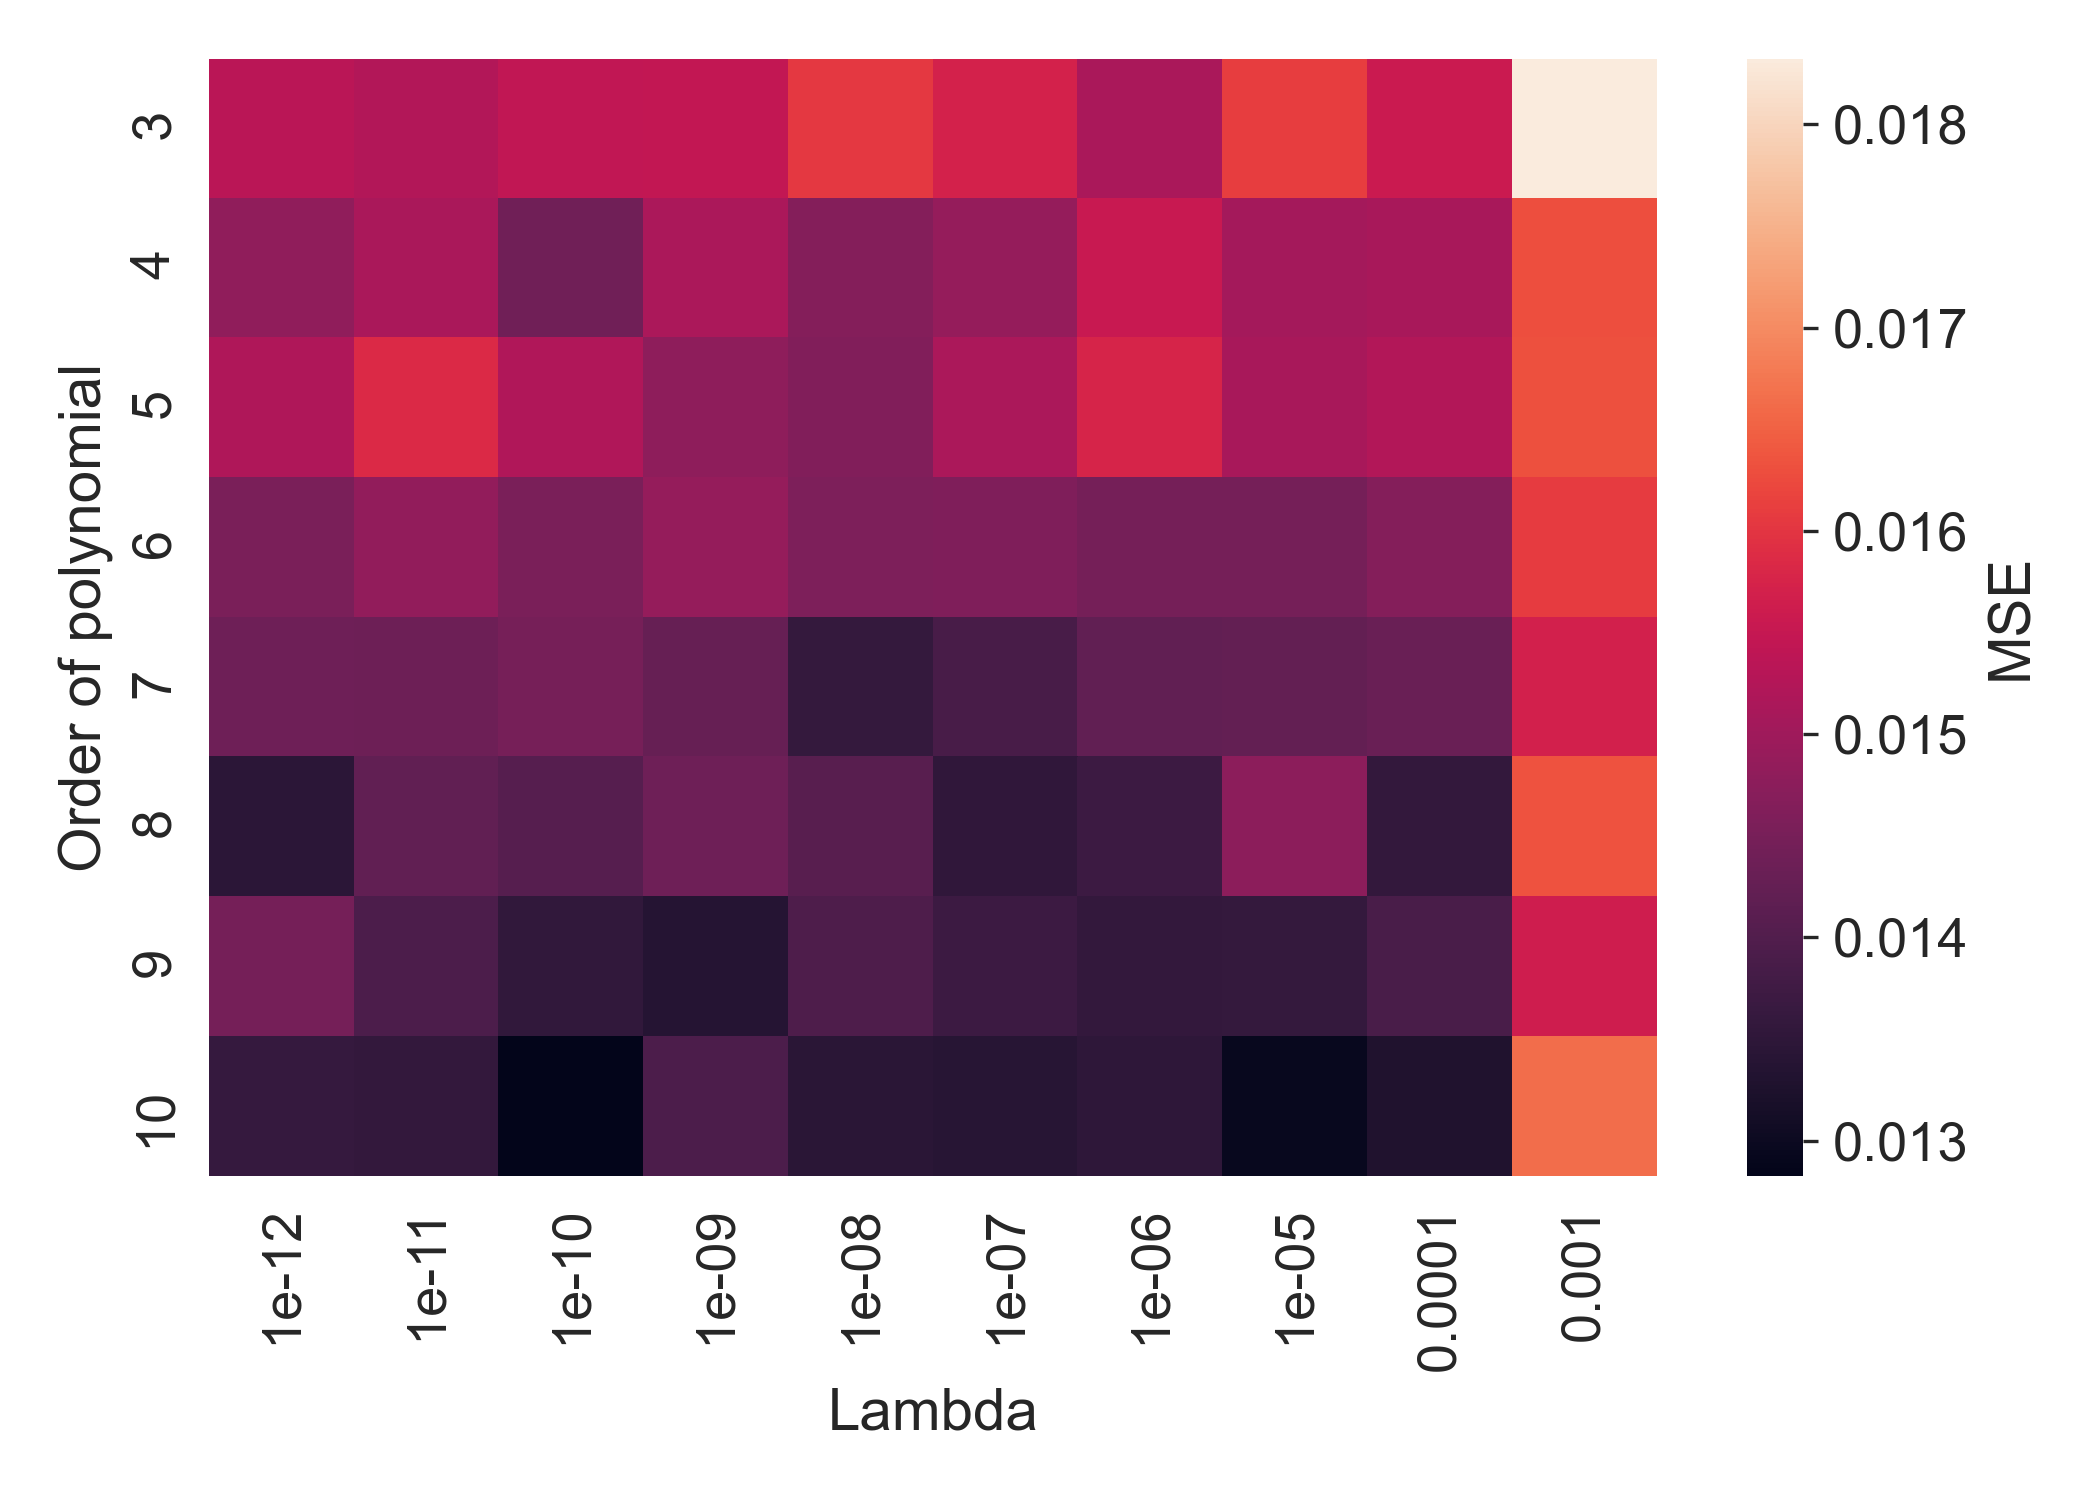
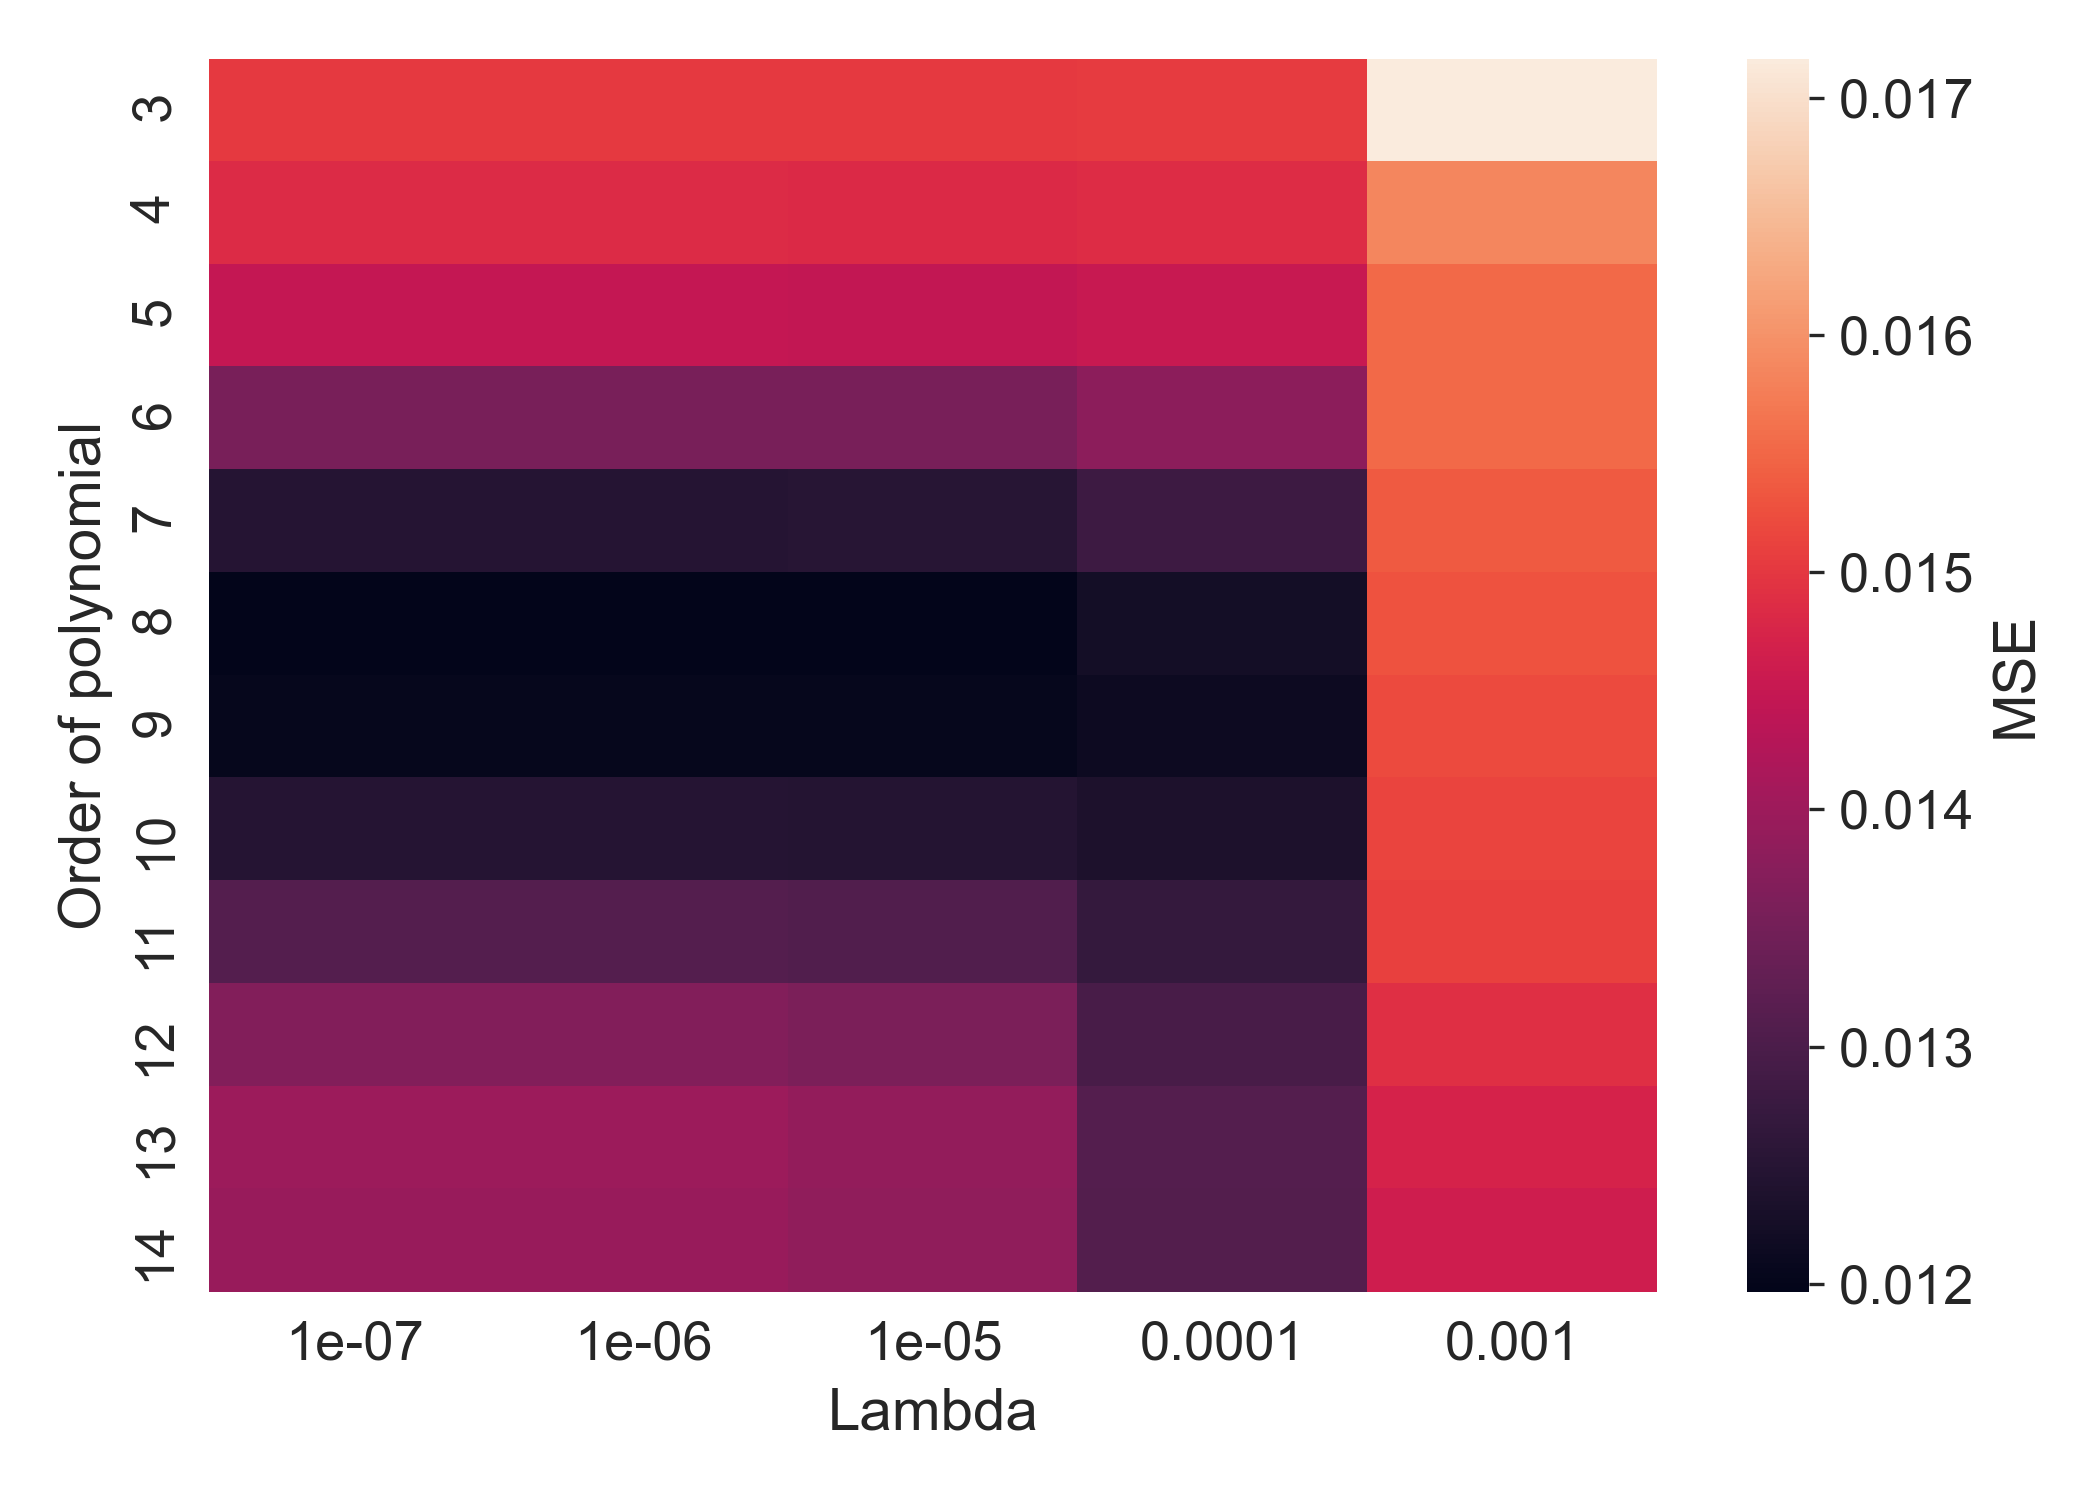
test

diff --git a/PROJECT1/main.py b/PROJECT1/main.py
@@ -67,11 +67,8 @@ def generate_reults(showfigs = False):
 
     plotfnc.MSE_plot(degrees_list, MSE_list_train, MSE_list_test, titles_ = titles, savename = "bootcross", savefig = True)
 
-    #(5)(E-F: CROSSVAL), (5) [2 figures, one ridge, one lasso]
-    # MSE COLORPLOT IN RIDGE AND LASSO (gridsearch)
-    print("Plotting gridsearch MSE, ridge and lasso.")
-    maxdeg = 13
-    crossval = True
+    #(5) Crossvalidation with k-fold gridsearch with ridge and lasso. MSE score
+    print("Plotting gridsearch MSE, ridge and lasso with crossval.")
     lambda_vals = np.logspace(-6, 0, 7)
     mindeg = 3
     maxdeg = 10
@@ -84,9 +81,10 @@ def generate_reults(showfigs = False):
         for j in range(maxdeg-mindeg+1):
             MSE_2d[j,i] = MSE_test_list[j] #fix indexing cause of length
 
-    plotfnc.gridsearch_plot(MSE_2d, lambda_vals, mindeg, maxdeg, savename="Ridge_grid", savefig = True)
+    plotfnc.gridsearch_plot(MSE_2d, lambda_vals, mindeg, maxdeg, savename="Ridge_crossval_grid", savefig = True)
 
-    lambda_vals = np.logspace(-12, -3, 10)
+    maxdeg = 20
+    lambda_vals = np.logspace(-7, -3, 5)
     method = Lasso
     MSE_2d = np.zeros(shape=(maxdeg+1-mindeg ,len(lambda_vals)))
     #Fill array with MSE values. x-axis lambda, y-axis degree
@@ -96,10 +94,39 @@ def generate_reults(showfigs = False):
         for j in range(maxdeg-mindeg+1):
             MSE_2d[j,i] = MSE_test_list[j] #fix indexing cause of length
 
+    plotfnc.gridsearch_plot(MSE_2d, lambda_vals, mindeg, maxdeg, savename="Lasso_crossval_grid", savefig = True)
+
+
+    #(6) No resampling gridsearch with ridge and lasso. MSE score
+    print("Plotting gridsearch MSE, ridge and lasso.")
+    maxdeg = 13
+    crossval = True
+    lambda_vals = np.logspace(-6, 0, 7)
+    method = Ridge
+    MSE_2d = np.zeros(shape=(maxdeg+1-mindeg ,len(lambda_vals)))
+    #Fill array with MSE values. x-axis lambda, y-axis degree
+    for i in range(len(lambda_vals)):
+        degrees_list, MSE_train_list, MSE_test_list, _, _, _, _, _, _ = \
+        Solver(x_, y_, z_, Nx_, Ny_, Ridge, useBootstrap=False, useCrossval=False, lamb=lambda_vals[i], mindegree = mindeg, maxdegree = maxdeg)
+        for j in range(maxdeg-mindeg+1):
+            MSE_2d[j,i] = MSE_test_list[j] #fix indexing cause of length
+
+    plotfnc.gridsearch_plot(MSE_2d, lambda_vals, mindeg, maxdeg, savename="Ridge_grid", savefig = True)
+
+    maxdeg = 14
+    lambda_vals = np.logspace(-7, -3, 5)
+    method = Lasso
+    MSE_2d = np.zeros(shape=(maxdeg+1-mindeg ,len(lambda_vals)))
+    #Fill array with MSE values. x-axis lambda, y-axis degree
+    for i in range(len(lambda_vals)):
+        degrees_list, MSE_train_list, MSE_test_list, _, _, _, _, _, _ = \
+        Solver(x_, y_, z_, Nx_, Ny_, method, useBootstrap=False, useCrossval=False, lamb=lambda_vals[i], mindegree = mindeg, maxdegree = maxdeg)
+        for j in range(maxdeg-mindeg+1):
+            MSE_2d[j,i] = MSE_test_list[j] #fix indexing cause of length
+
     plotfnc.gridsearch_plot(MSE_2d, lambda_vals, mindeg, maxdeg, savename="Lasso_grid", savefig = True)
 
-
-    #6 [2 figures, or 1 figure with 2 axis side by side]
+    #7 [2 figures, or 1 figure with 2 axis side by side]
     #BIAS-VARIANCE TRADEOFF, AS FUNCTION OF POLYDEG USING ONLY BOOTSTRAP,for both RIDGE AND LASSO
     print("Plotting bias-variance bootstrapped ridge and lasso.")
     lambda_vals = np.logspace(-2, 0, 3)
@@ -118,7 +145,7 @@ def generate_reults(showfigs = False):
         Solver(x_, y_, z_, Nx_, Ny_, Lasso, useBootstrap=True, useCrossval=False, lamb=lambda_, mindegree = mindeg, maxdegree = maxdeg)
         lasso.append([MSE_test_list, bias, variance])
 
-    plotfnc.bias_var_lambdas(degrees_list, ridge, lasso, lambda_vals)
+    plotfnc.bias_var_lambdas(degrees_list, ridge, lasso, lambda_vals, savefig=True)
 
     if showfigs:
         plt.show()
@@ -146,6 +173,8 @@ def main():
         bool_show = get_bool(showfigs_)
         generate_reults(showfigs = bool_show)
     """
+
+
 
 
     #plot_terrain()

diff --git a/PROJECT1/src/plotting_functions.py b/PROJECT1/src/plotting_functions.py
@@ -101,6 +101,8 @@ def bias_var_lambdas(degrees_list, ridge, lasso, lambdas, title = "BiasVar", sav
         axs[i].legend()
         axs[i].set_xlabel("Order of polynomial")
         axs[i].set_yscale("log")
+    if savefig:
+        plt.savefig(f"{path}/{title}.png", dpi = 300)
     return
 
 
@@ -120,32 +122,10 @@ def betaval_plot(degrees_list, beta_mat, nr_ofbeta, maxdeg, title = "Betavalues"
 def gridsearch_plot(MSE_2d_values, lambda_vals, mindeg, maxdeg, savefig = False, savename = "grid", path = "./Plots/Gridsearch"):
     plt.figure(figsize=(7,5), tight_layout=True)
     pathlib.Path(path).mkdir(parents=True, exist_ok=True)
-    df= pd.DataFrame(MSE_2d_values, columns= lambda_vals, index = np.arange(mindeg, maxdeg+1))
+    df = pd.DataFrame(MSE_2d_values, columns= lambda_vals, index = np.arange(mindeg, maxdeg+1))
+    df.round(2)
     fig = sns.heatmap(df, cbar_kws={'label': 'MSE'})
     fig.set(xlabel="Lambda", ylabel="Order of polynomial")
     if savefig:
         plt.savefig(f"{path}/{savename}.png", dpi = 300)
-    return
-
-
-def function_plot(x, y, z):
-    # Doesent work too well.
-    fig = plt.figure(figsize =(14, 9))
-    ax = plt.axes(projection ='3d')
-
-    # Creating color map
-    my_cmap = plt.get_cmap('hot')
-
-    # Creating plot
-    surf = ax.plot_surface(x, y, z,
-                           cmap = my_cmap,
-                           edgecolor ='none')
-
-    fig.colorbar(surf, ax = ax,
-                 shrink = 0.5, aspect = 5)
-
-    ax.set_title('Surface plot')
-
-    # show plot
-    plt.show()
     return
